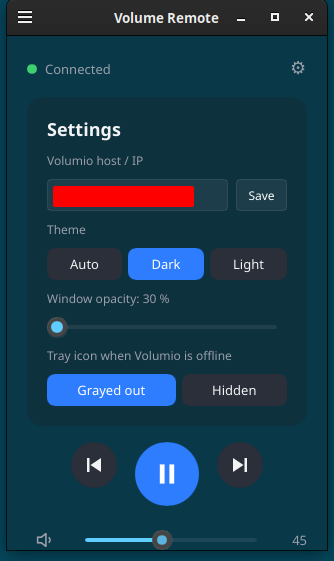
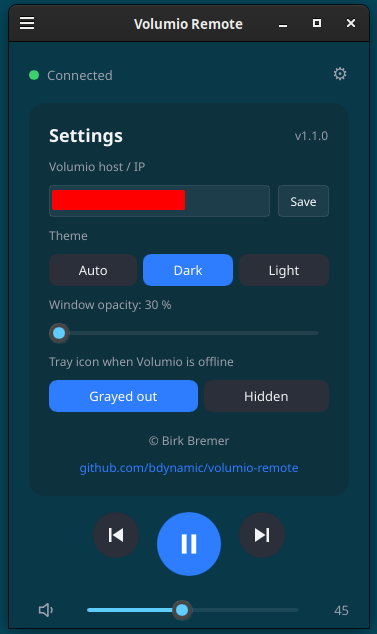
release: v1.2.0, new screenshots

diff --git a/devdoc/requirements.md b/devdoc/requirements.md
@@ -54,7 +54,7 @@ Priority: M = must, S = should, C = could. Status values: **done** = implemented
 | F-44 | M | CLI fallback for desktop shortcuts: `--toggle --next --prev --vol-up --vol-down --mute` | done (container) |
 | F-45 | M | Single instance (lock in `$XDG_RUNTIME_DIR`) | done |
 | F-46 | M | `install.sh`: pull, build, install, autostart, restart, remove legacy `volumiox` files | done |
-| F-47 | M | Version 1.1.0 (from `Cargo.toml`) shown in settings dialog | done |
+| F-47 | M | Version 1.2.0 (from `Cargo.toml`) shown in settings dialog | done |
 | F-48 | M | GPL-3.0-or-later license (`LICENSE`) | done |
 | F-49 | S | Cover art corners rounded (about 10.5 px, two thirds of the card radius): image is center-cropped to a square, scaled to 360 px and corners (21 px at 360 px) get an alpha mask in Rust (the Slint software renderer ignores rounded `clip`) | done (untested, no compiler in container) |
 | F-50 | S | Title, artist, album scroll horizontally (pause, scroll, pause) when wider than the window; centered otherwise | done (confirmed on host) |
